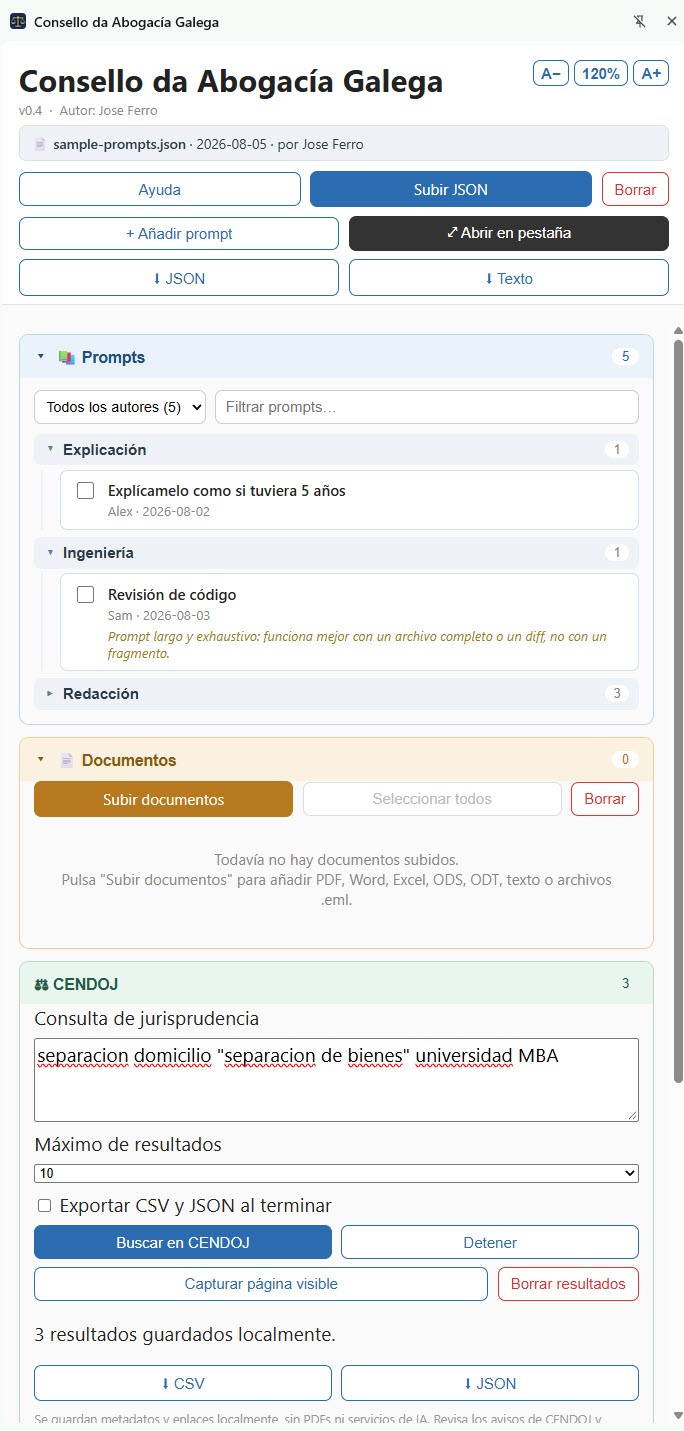
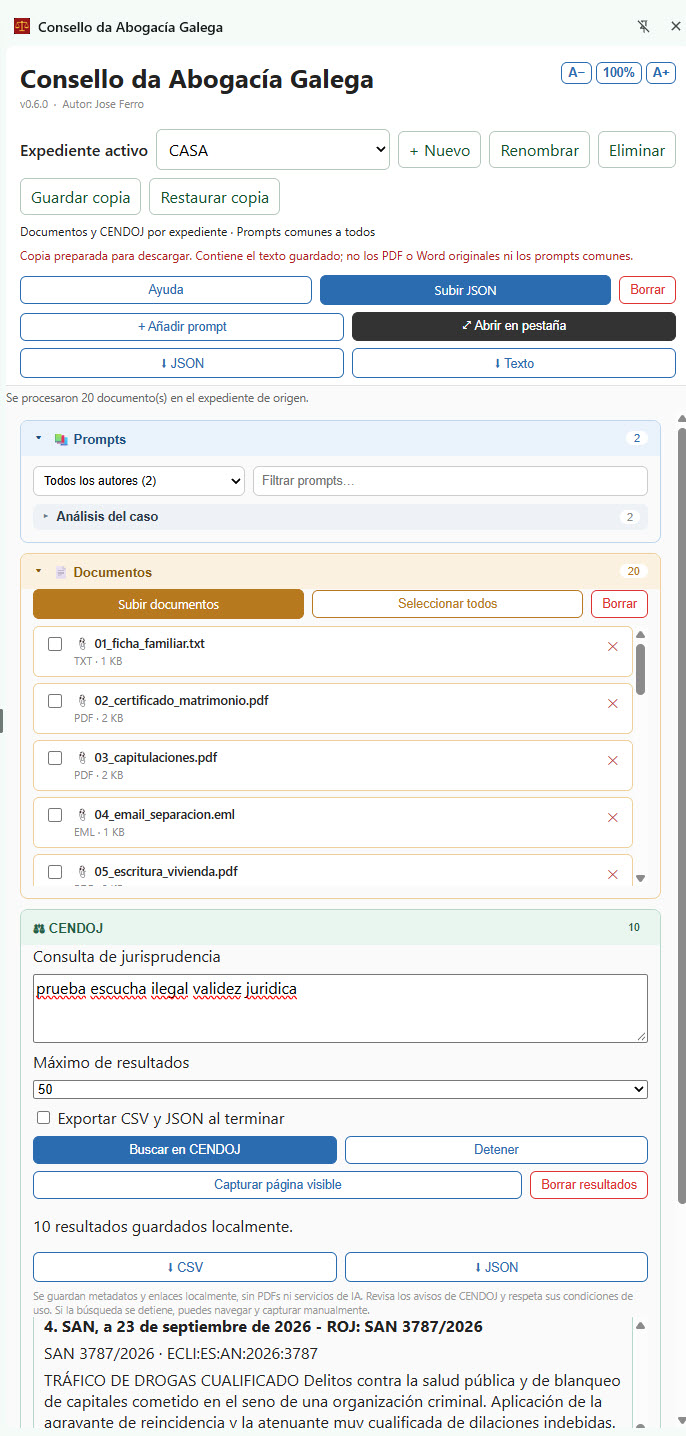
Actualizar captura del README a la interfaz v0.6.0

diff --git a/README.md b/README.md
@@ -4,9 +4,9 @@
 
 ## Captura de pantalla
 
-Panel lateral con la biblioteca de prompts, los documentos de referencia y la búsqueda de jurisprudencia CENDOJ.
+Panel lateral de la versión 0.6.0 con expedientes, copias de seguridad, prompts, documentos y jurisprudencia CENDOJ.
 
-![Panel lateral del Consello da Abogacía Galega: Prompts, Documentos y CENDOJ](docs/images/herramienta.jpg)
+![Panel lateral v0.6.0: expedientes, copia y restauración, prompts, documentos y CENDOJ](docs/images/herramienta.jpg)
 
 ## ¿Para qué sirve?
 
